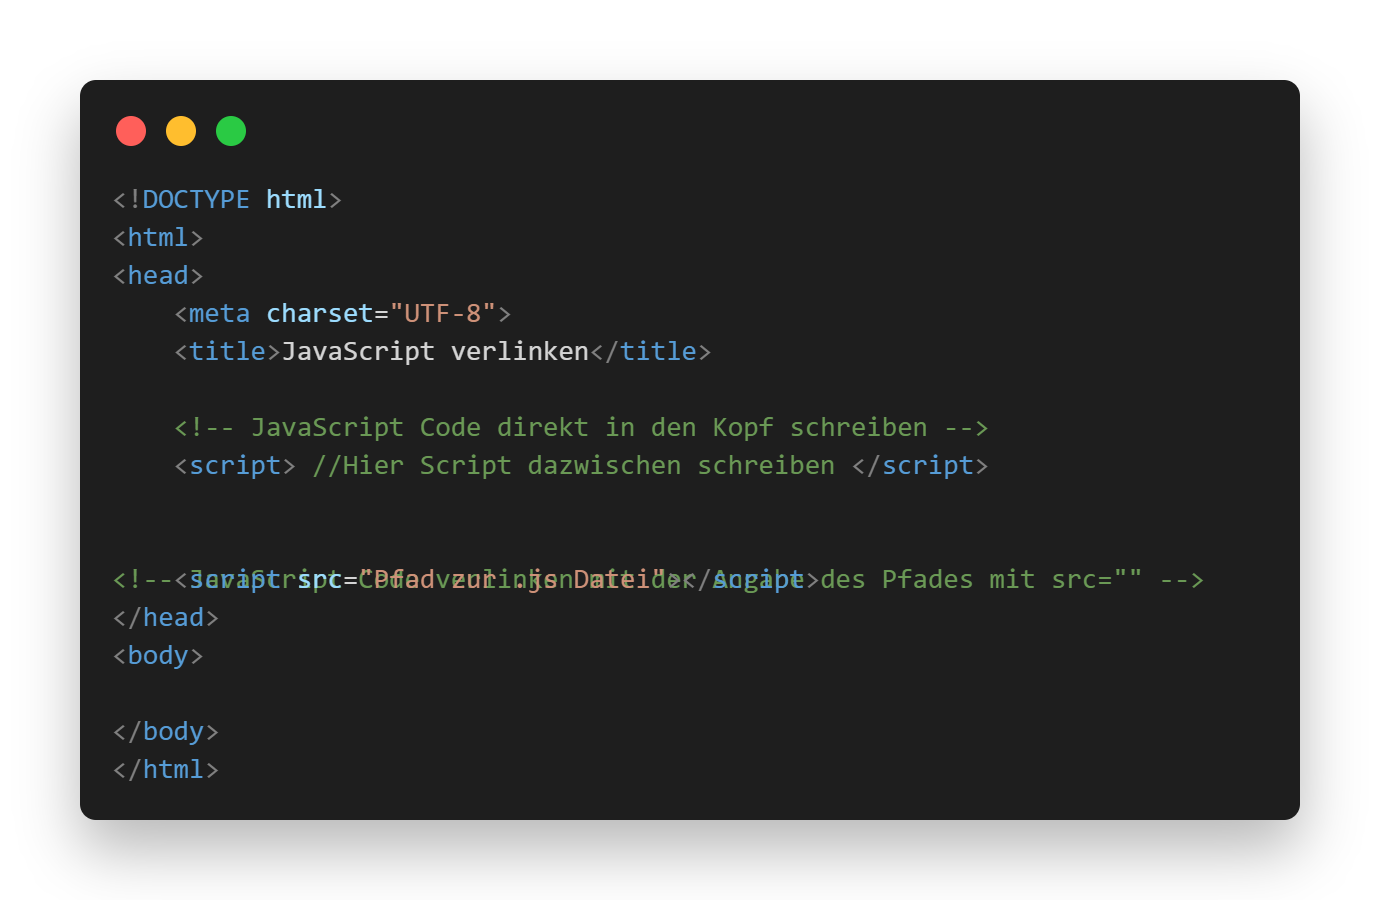
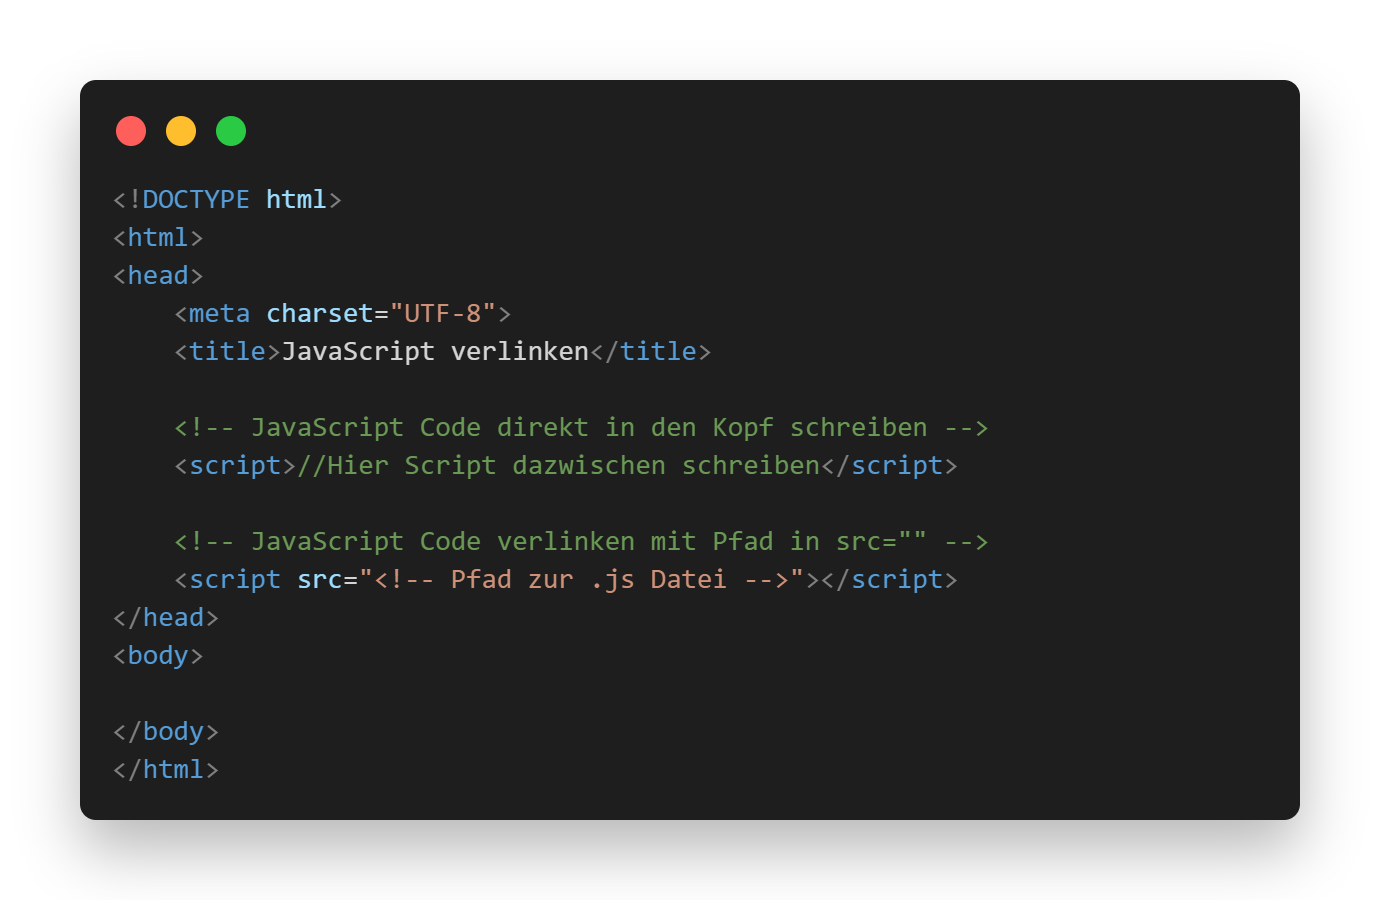
javascript verlinken

Changed region(s): [[0.1558, 0.5911, 0.8101, 0.6533], [0.2181, 0.4978, 0.7167, 0.5289], [0.1246, 0.5911, 0.1558, 0.6222]]

diff --git a/javascript.html b/javascript.html
@@ -5,10 +5,10 @@
     <title>JavaScript verlinken</title>
 
     <!-- JavaScript Code direkt in den Kopf schreiben -->
-    <script> //Hier Script dazwischen schreiben </script>
-
-    <!-- JavaScript Code verlinken mit der Angabe des Pfades mit src="" -->
-    <script src="Pfad zur .js Datei"></script>
+    <script>//Hier Script dazwischen schreiben</script>
+    
+    <!-- JavaScript Code verlinken mit Pfad in src="" -->
+    <script src="<!-- Pfad zur .js Datei -->"></script>
 </head>
 <body>
     
